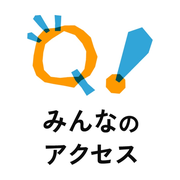
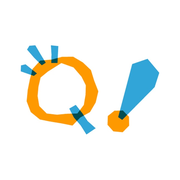
ホーム画面用アイコンも文字なしのQ!マークに統一

Changed region(s): [[0.1111, 0.0833, 0.8889, 0.75], [0.3889, 0.7778, 0.7778, 0.9167], [0.25, 0.8056, 0.3889, 0.9167]]

diff --git a/README.md b/README.md
@@ -12,7 +12,7 @@
 | --- | --- |
 | `index.html` | サイト本体（HTML・CSS・JavaScript をすべて含む単一ファイル） |
 | `events.json` | タイムラインに追加する項目（予定を含む）のデータ。ページが読み込み時に取得して表示します |
-| `favicon.ico` / `apple-touch-icon.png` | ファビコン（ブラウザのタブ用、16・32・48px）と、スマホのホーム画面用アイコン（180px）。「みんなのアクセス」のロゴから作成。タブ用は小さいサイズで文字が読めないため Q! のマークのみ、ホーム画面用は文字を含むロゴ全体 |
+| `favicon.ico` / `apple-touch-icon.png` | ファビコン（ブラウザのタブ用、16・32・48px）と、スマホのホーム画面用アイコン（180px）。どちらも「みんなのアクセス」のロゴの Q! のマーク（文字なし）から作成 |
 | `.nojekyll` | GitHub Pages で Jekyll の処理を無効にするための空ファイル |
 | `llms.txt` | AI エージェント向けの案内（[llmstxt.org](https://llmstxt.org/) の形式）。人物の要約、主な活動、連絡方法、リンクを Markdown で書いています。公開URLは https://enochan.github.io/portfolio/llms.txt |
 
